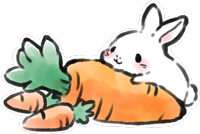
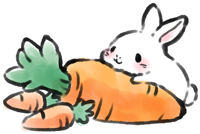
連絡先部分を変更

diff --git a/index.html b/index.html
@@ -35,8 +35,8 @@
   <div class="box1">
 <h2>プロフィール</h2>
    <div class="box1inner">
+		<div class="prof">
 <h3>中井わこ（中井裕子）</h3>
-<p><img src="img/prof.png" align="right"></p>
 <p>
 専門学校卒業後、ゲーム会社に2Dデザイナーとして勤務。<br>
 主にアーケード用格闘ゲームの開発に携わりました。<br>
@@ -45,18 +45,29 @@
 現在はフリーランスとして活動しています。</p>
 <p>好きなゲームはRPG、パズル、音ゲーなど。<br>
 （現在育児中であまりできませんが...）</p>
-</p>
-<div style="border:solid 1px #a5ccb0; padding: 0em 1em 2em 1em;">
-<p><center>連絡先はこちら</center></p>
-<div class="contact">
+
+		</div><!-- prof -->
+
+   </div>
+  </div>
+
+  <div class="box1">
+<h2>連絡先</h2>
+   <div class="box1inner">
+
+	<div style="border:solid 1px #a5ccb0; padding: 0em 1em 2em 1em;">
+<p><center>メールかツイッターでお願いします<br><small>（メールアドレスはコピーしてください）</small></center></p>
+		<div class="contact">
  	<div class="con_box" style="background-color:#f0a0a0;">
 	mail: wako0302@gmail.com</div>
 	 <a href="https://twitter.com/wako_mz" target="_blank"><div class="con_box" style="background-color:#1d9bf0;">
 	twitter: wako_mz</div></a>
-</div>
-</div>
-   </div>
-  </div>
+
+		</div><!-- contact -->
+	</div>
+
+   </div><!-- box1inner -->
+  </div><!-- box1 -->
 
 
   <div class="box1">

diff --git a/style.css b/style.css
@@ -219,6 +219,13 @@ margin:1.5em;
 
 /* ぷろふぃ～～～る */
 
+.prof
+ {
+background-image: url(img/prof.png);
+background-repeat: no-repeat;
+background-position: right bottom;
+ }
+
 .contact
  {
 display: flex;
